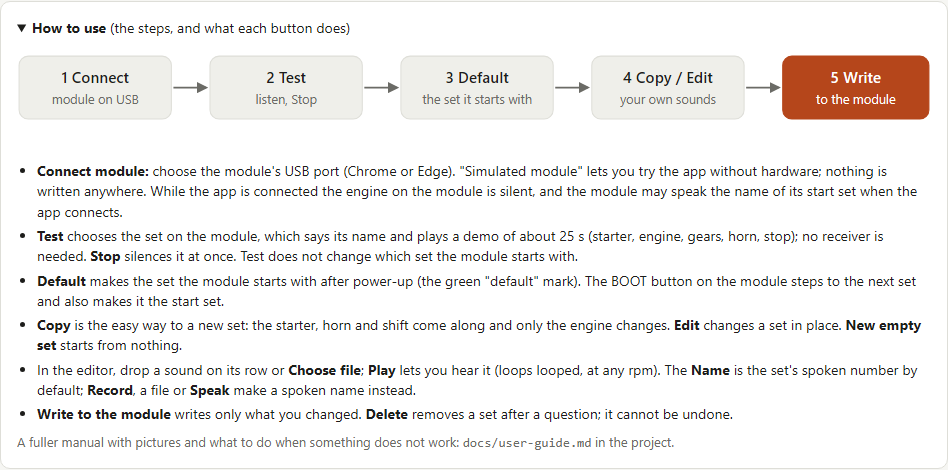
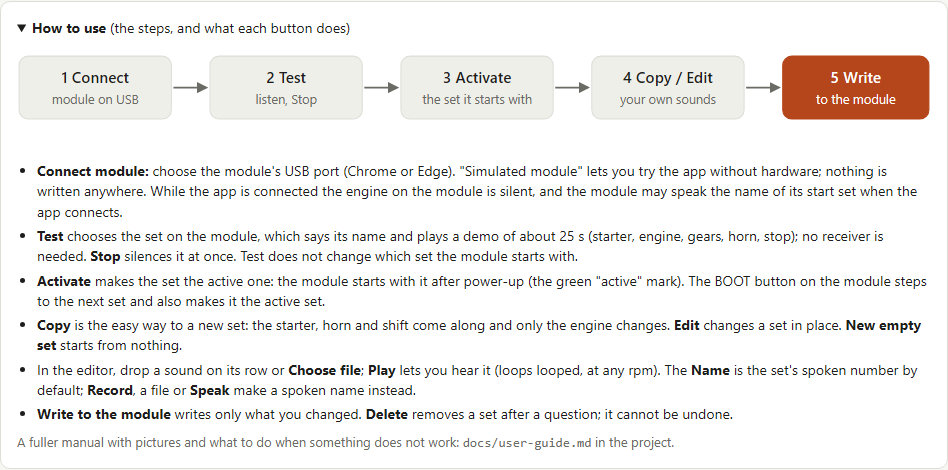
Web app: the set the module starts with is called active (button Activate), not default
The protocol keeps the word default (@default, default= in @info). Guide pictures remade.

Changed region(s): [[0.0306, 0.566, 0.9789, 0.6553], [0.4589, 0.1489, 0.5506, 0.1787]]

diff --git a/web/index.html b/web/index.html
@@ -97,12 +97,12 @@ details.guide li { margin-bottom: 4px; }
   <section>
   <details class="guide" id="howto">
     <summary><strong>How to use</strong> (the steps, and what each button does)</summary>
-    <svg viewBox="0 0 900 96" role="img" aria-label="Steps: connect, test, default, copy or edit, write" style="width:100%;height:auto;margin:10px 0 4px">
+    <svg viewBox="0 0 900 96" role="img" aria-label="Steps: connect, test, activate, copy or edit, write" style="width:100%;height:auto;margin:10px 0 4px">
       <defs><marker id="arr" viewBox="0 0 10 10" refX="8" refY="5" markerWidth="7" markerHeight="7" orient="auto"><path d="M0 0 L10 5 L0 10 z" fill="var(--muted)"/></marker></defs>
       <g font-size="15" text-anchor="middle" fill="var(--ink)">
         <g><rect x="2" y="8" width="150" height="62" rx="9" fill="var(--chip)" stroke="var(--line)"/><text x="77" y="34" font-weight="600">1 Connect</text><text x="77" y="55" font-size="12.5" fill="var(--muted)">module on USB</text></g>
         <g><rect x="190" y="8" width="150" height="62" rx="9" fill="var(--chip)" stroke="var(--line)"/><text x="265" y="34" font-weight="600">2 Test</text><text x="265" y="55" font-size="12.5" fill="var(--muted)">listen, Stop</text></g>
-        <g><rect x="378" y="8" width="150" height="62" rx="9" fill="var(--chip)" stroke="var(--line)"/><text x="453" y="34" font-weight="600">3 Default</text><text x="453" y="55" font-size="12.5" fill="var(--muted)">the set it starts with</text></g>
+        <g><rect x="378" y="8" width="150" height="62" rx="9" fill="var(--chip)" stroke="var(--line)"/><text x="453" y="34" font-weight="600">3 Activate</text><text x="453" y="55" font-size="12.5" fill="var(--muted)">the set it starts with</text></g>
         <g><rect x="566" y="8" width="150" height="62" rx="9" fill="var(--chip)" stroke="var(--line)"/><text x="641" y="34" font-weight="600">4 Copy / Edit</text><text x="641" y="55" font-size="12.5" fill="var(--muted)">your own sounds</text></g>
         <g><rect x="754" y="8" width="144" height="62" rx="9" fill="var(--accent)" stroke="var(--accent)"/><text x="826" y="34" font-weight="600" fill="var(--accent-ink)">5 Write</text><text x="826" y="55" font-size="12.5" fill="var(--accent-ink)">to the module</text></g>
       </g>
@@ -115,8 +115,8 @@ details.guide li { margin-bottom: 4px; }
       <li><strong>Test</strong> chooses the set on the module, which says its name and plays a demo of about 25 s
         (starter, engine, gears, horn, stop); no receiver is needed. <strong>Stop</strong> silences it at once. Test
         does not change which set the module starts with.</li>
-      <li><strong>Default</strong> makes the set the module starts with after power-up (the green "default" mark). The
-        BOOT button on the module steps to the next set and also makes it the start set.</li>
+      <li><strong>Activate</strong> makes the set the active one: the module starts with it after power-up (the green
+        "active" mark). The BOOT button on the module steps to the next set and also makes it the active set.</li>
       <li><strong>Copy</strong> is the easy way to a new set: the starter, horn and shift come along and only the engine
         changes. <strong>Edit</strong> changes a set in place. <strong>New empty set</strong> starts from nothing.</li>
       <li>In the editor, drop a sound on its row or <strong>Choose file</strong>; <strong>Play</strong> lets you hear it
@@ -856,7 +856,7 @@ function renderSets() {
     const cells = [idx || "-", j ? j.name || "" : "", type, kB(s.bytes), s.folder];
     for (const c of cells) { const td = document.createElement("td"); td.textContent = c; tr.appendChild(td); }
     const isDef = s.folder === info.default;
-    if (isDef) { tr.className = "isdef"; tr.children[1].insertAdjacentHTML("beforeend", ' <span class="defbadge" title="the module starts with this set after power-up">default</span>'); }
+    if (isDef) { tr.className = "isdef"; tr.children[1].insertAdjacentHTML("beforeend", ' <span class="defbadge" title="the active set: the module starts with it after power-up">active</span>'); }
     if (s.folder === info.set) tr.children[1].insertAdjacentHTML("beforeend", ' <span class="ok" title="chosen on the module now">&#9679;</span>');
     if (note) tr.children[1].insertAdjacentHTML("beforeend", `<div class="warn hint">${note}</div>`);
     const td = document.createElement("td"); td.className = "actions";
@@ -870,8 +870,8 @@ function renderSets() {
     btn("Stop", () => guarded(async () => { await link.stop(); stopPlay(); log("stopped"); }),
         sim ? "stop the name or the demo" : "silence the name and the demo that the module is playing (the engine winds down)");
     if (sim) td.lastChild.previousSibling.dataset.owner = "set:" + s.folder;   // plays here, in the browser
-    const bd = btn("Default", () => guarded(async () => { await link.setDefault(s.folder); info.default = s.folder; renderSets(); log(s.folder + " is now the set the module starts with"); }),
-        isDef ? "the module starts with this set after power-up" : "make this the set the module starts with after power-up (Test does not change it)");
+    const bd = btn("Activate", () => guarded(async () => { await link.setDefault(s.folder); info.default = s.folder; renderSets(); log(s.folder + " is now the active set (the module starts with it)"); }),
+        isDef ? "this is the active set: the module starts with it after power-up" : "make this the active set: the module starts with it after power-up (Test does not change it)");
     if (isDef) { bd.disabled = true; bd.dataset.never = "1"; }
     btn("Edit", () => openSet(s.folder, false));
     btn("Copy", () => openSet(s.folder, true), "a new set made from this one");

diff --git a/tools/make_guide_images.py b/tools/make_guide_images.py
@@ -27,7 +27,7 @@ def main():
         pg.click("#howto summary")
         pg.screenshot(path=os.path.join(OUT, "02-start.png"), clip={"x": 0, "y": 0, "width": 1040, "height": 260})
         pg.click("#btnSim"); pg.wait_for_timeout(1500)
-        pg.locator("#setRows tr").nth(1).get_by_text("Default", exact=True).click(); pg.wait_for_timeout(500)
+        pg.locator("#setRows tr").nth(1).get_by_text("Activate", exact=True).click(); pg.wait_for_timeout(500)
         pg.locator("#secSets").screenshot(path=os.path.join(OUT, "03-list.png"))
         pg.locator("#setRows tr").first.get_by_text("Copy", exact=True).click(); pg.wait_for_timeout(2500)
         pg.locator("#secEdit").screenshot(path=os.path.join(OUT, "04-editor.png"))

diff --git a/docs/user-sounds.md b/docs/user-sounds.md
@@ -172,7 +172,7 @@ All WAVs in the format of "Format on the module".
 │   ├── 03_pulse_old/        synth set: the same files without idle.wav and loaded.wav
 │   │   └── ...
 │   └── ... 07_v12/
-└── state.json        the set the module starts with after power-up (the default; set by BOOT or by the app's Default)
+└── state.json        the set the module starts with after power-up (the active set; set by BOOT or by the app's Activate)
 ```
 
 The firmware lists `/sets/` at start-up, sorts the folders by name and skips a folder with a file missing (it
@@ -340,10 +340,10 @@ installing Chrome is enough. Tested so far only in Edge on Windows.
   look, whatever the system's colour setting is) and a panel "How to use" at the top of the app. The firmware
   version shows in the connection line and under the list (both confirmed on the real module by the owner,
   2026-11-15).
-- **Default set (2026-11-15)**: the row of the set the module starts with after power-up is tinted and has a green
-  "default" mark; the button "Default" on any other row makes it the default set (`@default`). Test only
+- **Active set (2026-11-15, renamed from "default" on 2026-11-17)**: the row of the set the module starts with after power-up is tinted and has a green
+  "active" mark; the button "Activate" on any other row makes it the active set (the protocol keeps the old word: `@default`). Test only
   tries a set and does not change it; BOOT on the module does (it steps to the next set and remembers it). The small
-  green dot is the set chosen on the module now. Renaming the default set keeps it the default.
+  green dot is the set chosen on the module now. Renaming the active set keeps it the active one.
 - **On the module**: every set with its number, name, type and size, and the free space. "Test" chooses the set on
   the module, it speaks the name and plays a demo of about 25 s (below; this was "Demo", and a separate "Play" that
   only spoke the name was dropped on 2026-11-15 because users could not tell the two apart), "Edit" and "Copy" open it in the editor, "Delete" removes it after a question. Folders the module skips
@@ -416,7 +416,7 @@ full).
 | Command | Answer |
 |---|---|
 | `@hello` | `@ok cbsound 1` |
-| `@info` | `@ok free=<bytes> total=<bytes> set=<folder or -> psram=<bytes> fw=<version> built=<date> default=<folder or ->`; the app shows the firmware version under the list and marks the default set |
+| `@info` | `@ok free=<bytes> total=<bytes> set=<folder or -> psram=<bytes> fw=<version> built=<date> default=<folder or ->`; the app shows the firmware version under the list and marks the active set |
 | `@default <folder>` | `@ok`; the set the module starts with after power-up (written 2026-11-15, checked on the module); it does not change what is playing, and `@select` and `@demo` do not change it |
 | `@ls` | `@set <bytes> <folder>` per folder in `/sets`, then `@ok <count>` |
 | `@files <folder>` | `@file <bytes> <name>` per file, then `@ok <count>` |
@@ -450,7 +450,7 @@ From the repo root, then from `firmware/`:
    data partition is gone, so the module plays the fallback (diesel synth) and beeps once until step 3.
 3. `pio run -e engine_sets -t uploadfs` writes the sets (the whole data partition, about 5 MB, takes a while).
 4. The serial monitor (115200 Bd) lists the sets found and every set loaded; BOOT steps to the next set, which
-   speaks its name. After a power cycle the module starts with the set chosen last with BOOT, or with the default set of the web app.
+   speaks its name. After a power cycle the module starts with the set chosen last with BOOT, or with the active set of the web app.
 
 Going back to `engine_lab` is just `pio run -e engine_lab -t upload` (it brings its own partition table).
 Flash with the USB power rule in mind (`bringup.md`).

diff --git a/docs/user-guide.md b/docs/user-guide.md
@@ -15,7 +15,7 @@ can be remade after any change of the app. How the sets and the protocol work in
 
 ![How to use](guide/01-how-to-use.png)
 
-1. **Connect** the module. 2. **Test** the sets you have. 3. Choose the **Default** one. 4. **Copy** or **Edit** a set to
+1. **Connect** the module. 2. **Test** the sets you have. 3. **Activate** the one you want. 4. **Copy** or **Edit** a set to
 make your own. 5. **Write** it to the module.
 
 ## 1. Connect
@@ -44,7 +44,7 @@ and free memory of the module (about 4.6 MB of sounds in all) and the firmware v
 |---|---|
 | **Test** | The module chooses this set, says its name and plays a demo of about 25 s: the starter, the engine catching, full throttle through the gears, a release, two blips, the horn and the stop. No receiver is needed. It does **not** change which set the module starts with. (Synth sets cannot be tested in the simulated module, only on the real one.) |
 | **Stop** | Silences the test at once. |
-| **Default** | Makes this set the one the module **starts with** after power-up (the row is tinted and has the green "default" mark). The BOOT button on the module also steps to the next set and makes it the default set. |
+| **Activate** | Makes this the **active** set, the one the module **starts with** after power-up (the row is tinted and has the green "active" mark). The BOOT button on the module also steps to the next set and makes it the active set. |
 | **Edit** | Opens the set in the editor to change it in place. |
 | **Copy** | Opens a copy as a new set, the easy start for your own: the starter, the horn and the shift sound come along and you change only the engine. |
 | **Delete** | Removes the set from the module after a question. It cannot be undone. |
